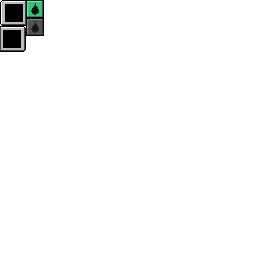
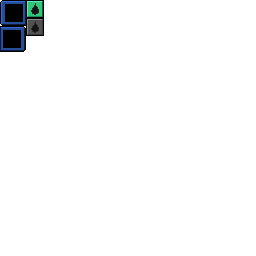
修复与modernityextra下个版本的兼容性

Changed region(s): [[0.0, 0.0, 0.125, 0.2188]]

diff --git a/src/main/java/mekanism/generators/client/gui/element/GuiReactorTab.java b/src/main/java/mekanism/generators/client/gui/element/GuiReactorTab.java
@@ -24,7 +24,7 @@ public class GuiReactorTab extends GuiTabElementType<TileEntityReactorController
     }
 
     public enum ReactorTab implements TabType {
-        HEAT("GuiHeatTab.png", 11, "gui.heat", 6),
+        HEAT("GuiHeatTab_uncolored.png", 11, "gui.heat", 6),
         FUEL("GuiFuelTab.png", 12, "gui.fuel", 34),
         STAT("GuiStatsTab.png", 13, "gui.stats", 62);
 

diff --git a/src/main/java/mekanism/client/gui/element/tab/GuiMatrixTab.java b/src/main/java/mekanism/client/gui/element/tab/GuiMatrixTab.java
@@ -22,7 +22,7 @@ public class GuiMatrixTab extends GuiTabElementType<TileEntityInductionCasing, M
     }
 
     public enum MatrixTab implements TabType {
-        MAIN("GuiEnergyTab.png", 49, "gui.main"),
+        MAIN("GuiEnergyTab_uncolored.png", 49, "gui.main"),
         STAT("GuiStatsTab.png", 50, "gui.stats");
 
         private final String description;

diff --git a/src/main/java/mekanism/client/gui/element/tab/GuiBoilerTab.java b/src/main/java/mekanism/client/gui/element/tab/GuiBoilerTab.java
@@ -22,7 +22,7 @@ public class GuiBoilerTab extends GuiTabElementType<TileEntityBoilerCasing, Boil
     }
 
     public enum BoilerTab implements TabType {
-        MAIN("GuiGasesTab.png", 54, "gui.main"),
+        MAIN("GuiGasesTab_uncolored.png", 54, "gui.main"),
         STAT("GuiStatsTab.png", 55, "gui.stats");
 
         private final String description;

diff --git a/src/main/java/mekanism/generators/client/gui/element/GuiTurbineTab.java b/src/main/java/mekanism/generators/client/gui/element/GuiTurbineTab.java
@@ -24,7 +24,7 @@ public class GuiTurbineTab extends GuiTabElementType<TileEntityTurbineCasing, Tu
     }
 
     public enum TurbineTab implements TabType {
-        MAIN("GuiGasesTab.png", 6, "gui.main"),
+        MAIN("GuiGasesTab_uncolored.png", 6, "gui.main"),
         STAT("GuiStatsTab.png", 7, "gui.stats");
 
         private final String description;
